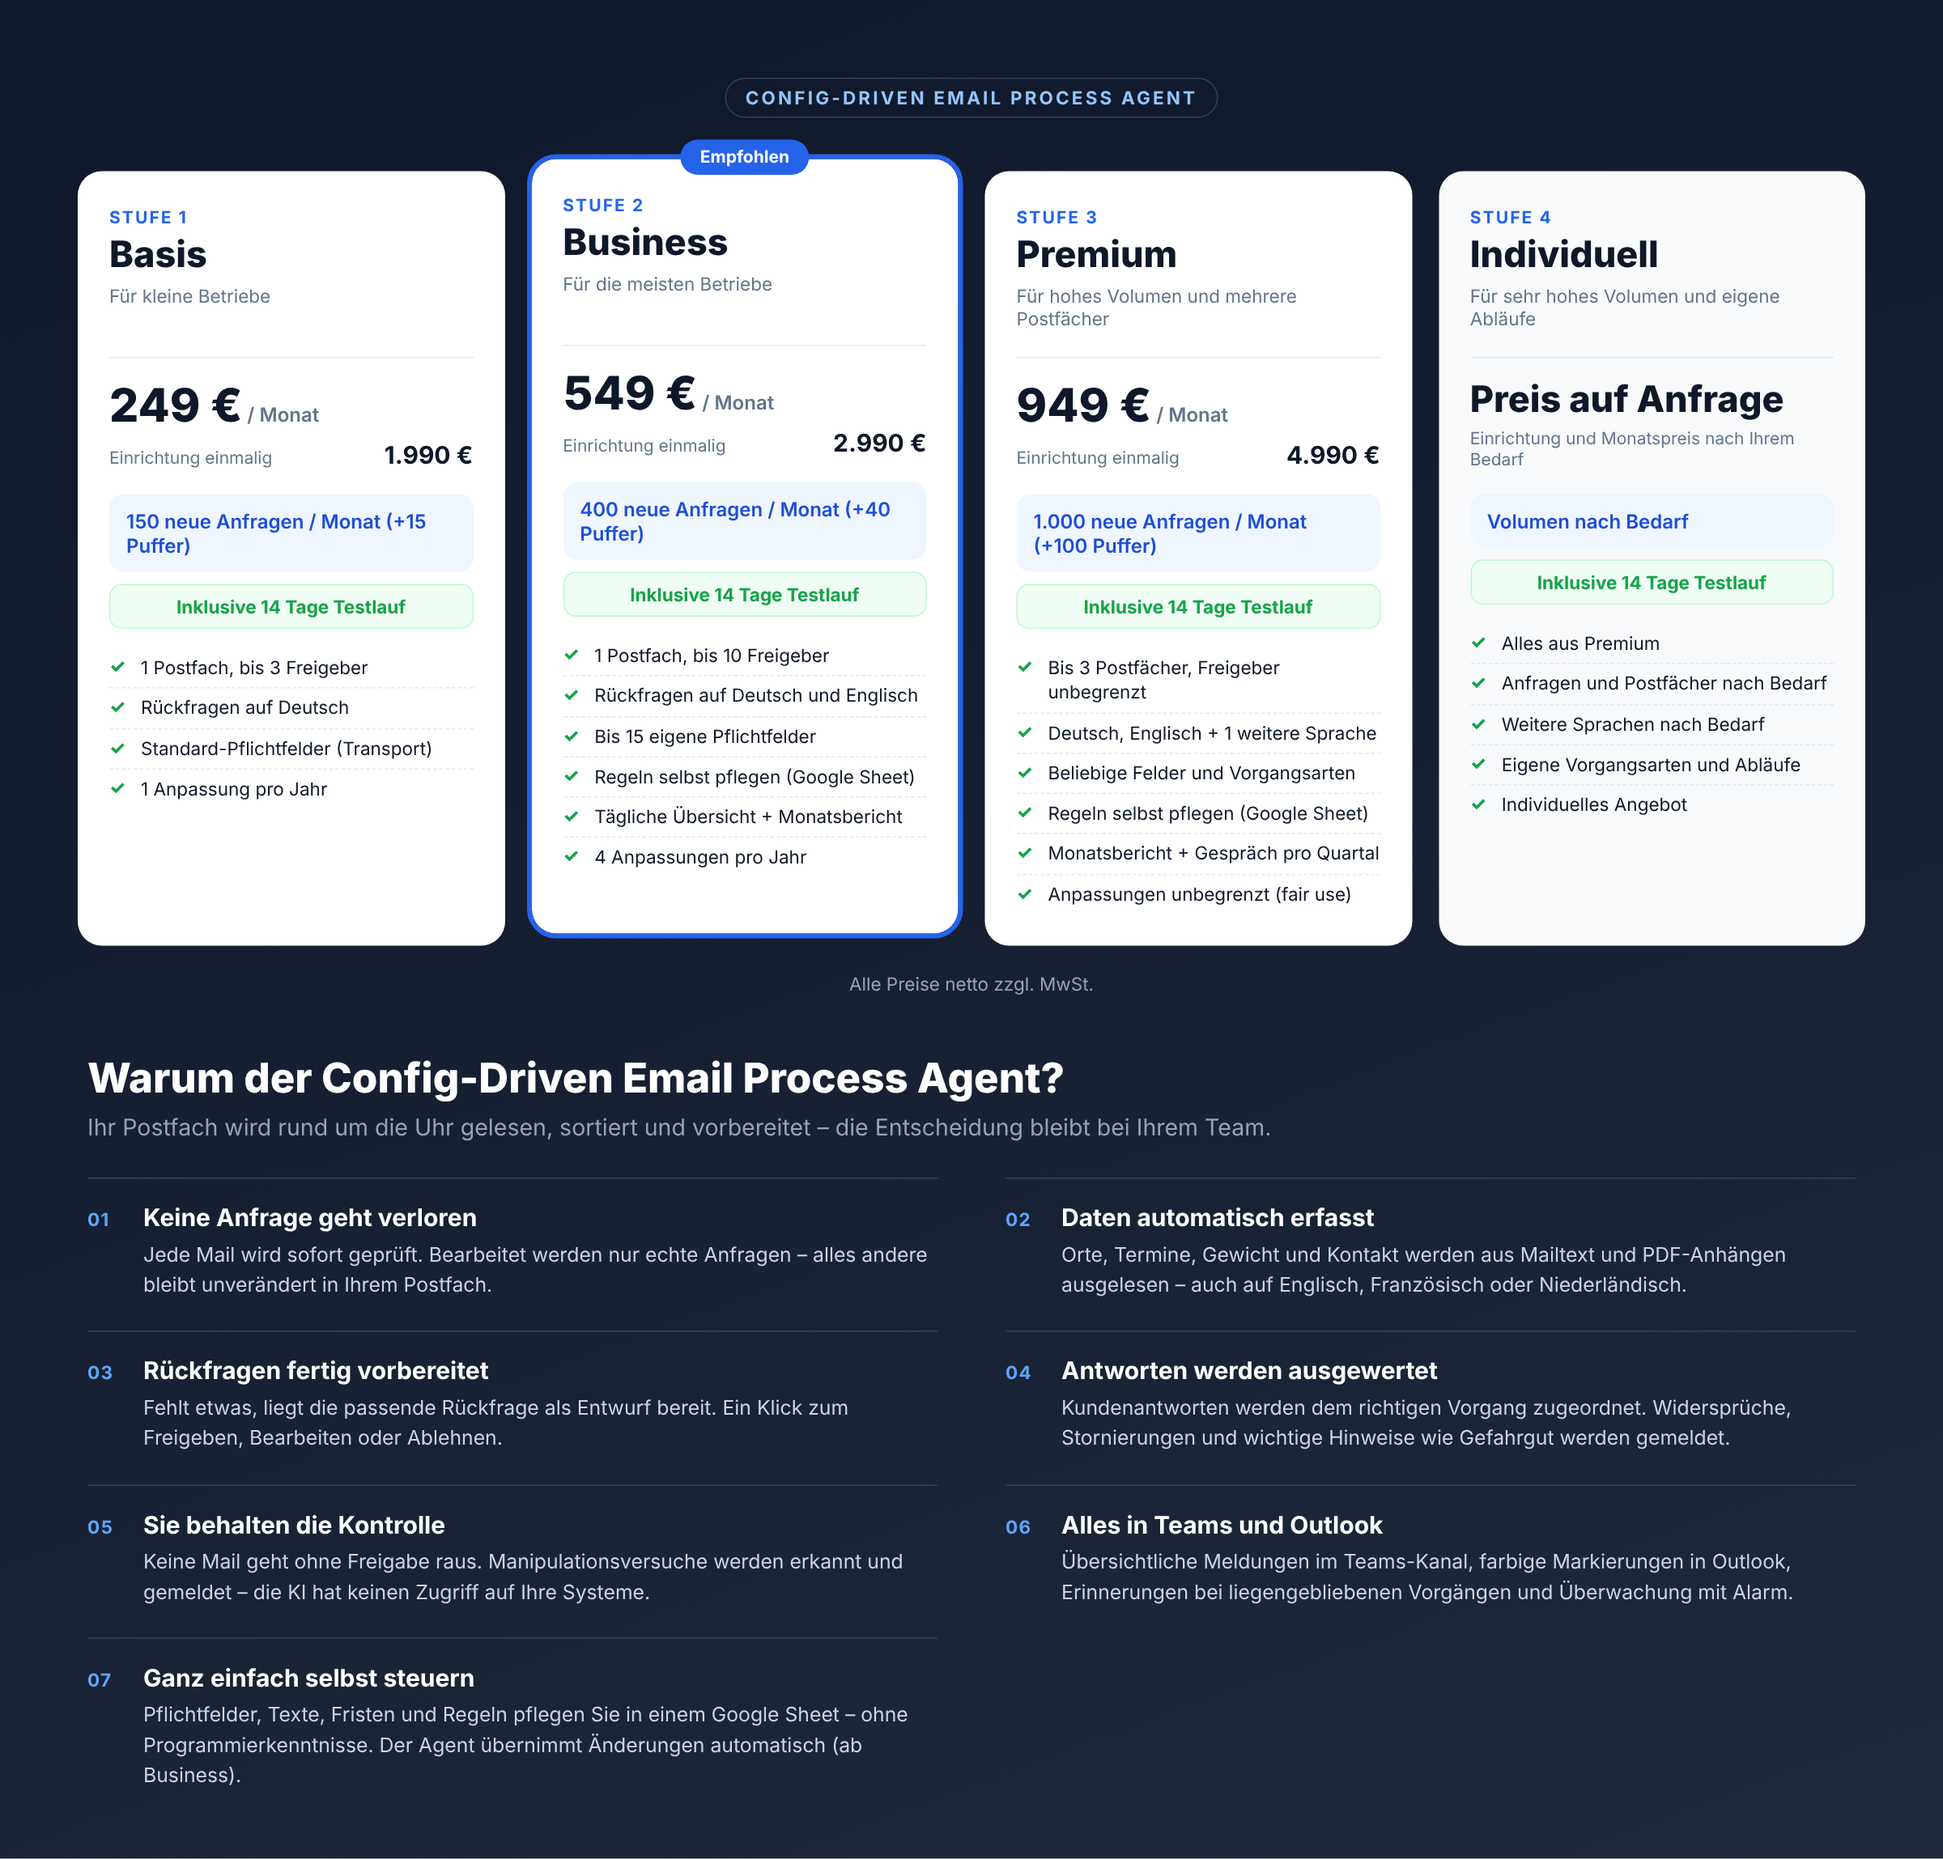
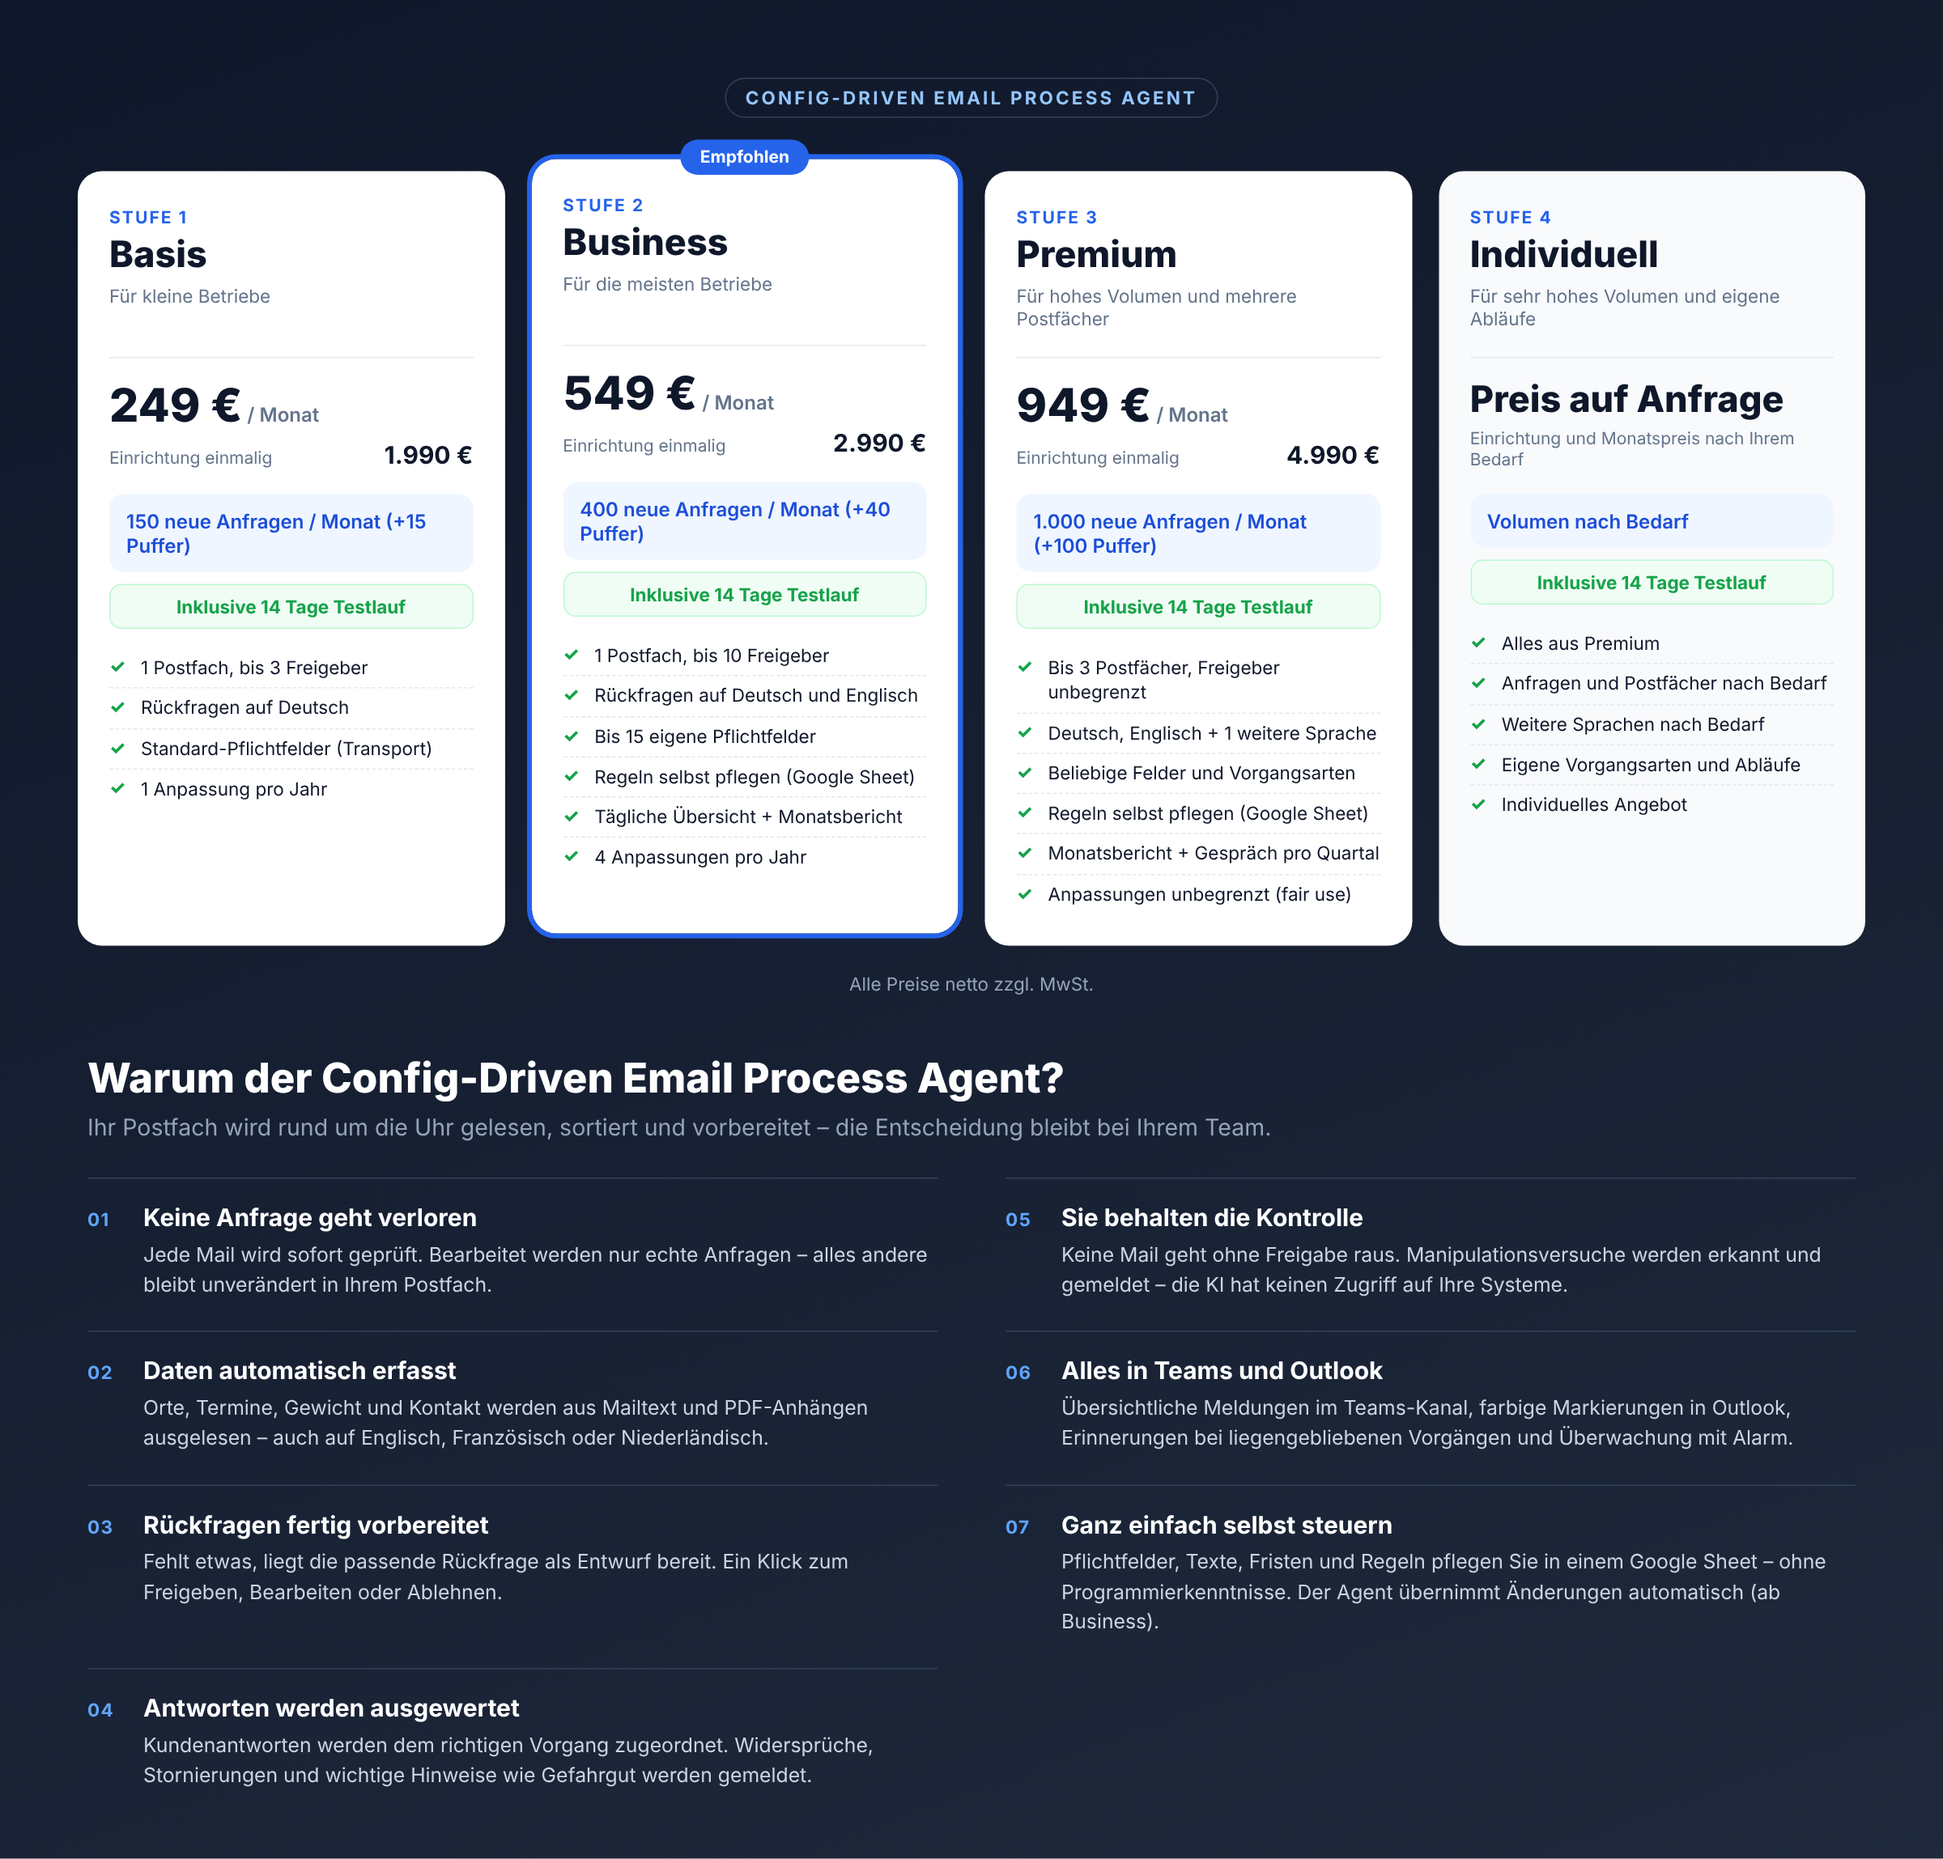
Marketing: Vorteile spaltenweise (links 1-4, rechts 5-7)
Claude-Session: https://claude.ai/code/session_01DWBN4EiRV4Kip9NV7YGeLF

Changed region(s): [[0.5312, 0.6491, 0.9375, 0.8655], [0.0625, 0.7109, 0.4375, 0.8655], [0.0312, 0.8964, 0.4375, 0.9582]]

diff --git a/email-process-agent/docs/marketing/pakete.html b/email-process-agent/docs/marketing/pakete.html
@@ -44,7 +44,7 @@ li::before{content:"✓";position:absolute;left:0;top:5px;color:var(--ok);font-w
 .vorteile{margin-top:48px;padding:0 8px;color:#e2e8f0;background:none}
 .vorteile h2{font-size:34px;font-weight:800;color:#fff;margin-bottom:8px}
 .vorteile .sub{font-size:19px;color:#94a3b8;margin-bottom:30px}
-.liste{display:grid;grid-template-columns:1fr 1fr;column-gap:56px;row-gap:26px}
+.liste{display:grid;grid-template-columns:1fr 1fr;grid-template-rows:repeat(4,auto);grid-auto-flow:column;column-gap:56px;row-gap:26px}
 .pt{display:flex;gap:18px;border-top:1px solid #334155;padding-top:20px}
 .pt .nr{font-size:15px;font-weight:700;color:#60a5fa;letter-spacing:.06em;min-width:28px;padding-top:4px}
 .pt h3{font-size:20px;font-weight:700;color:#fff;margin-bottom:6px}
